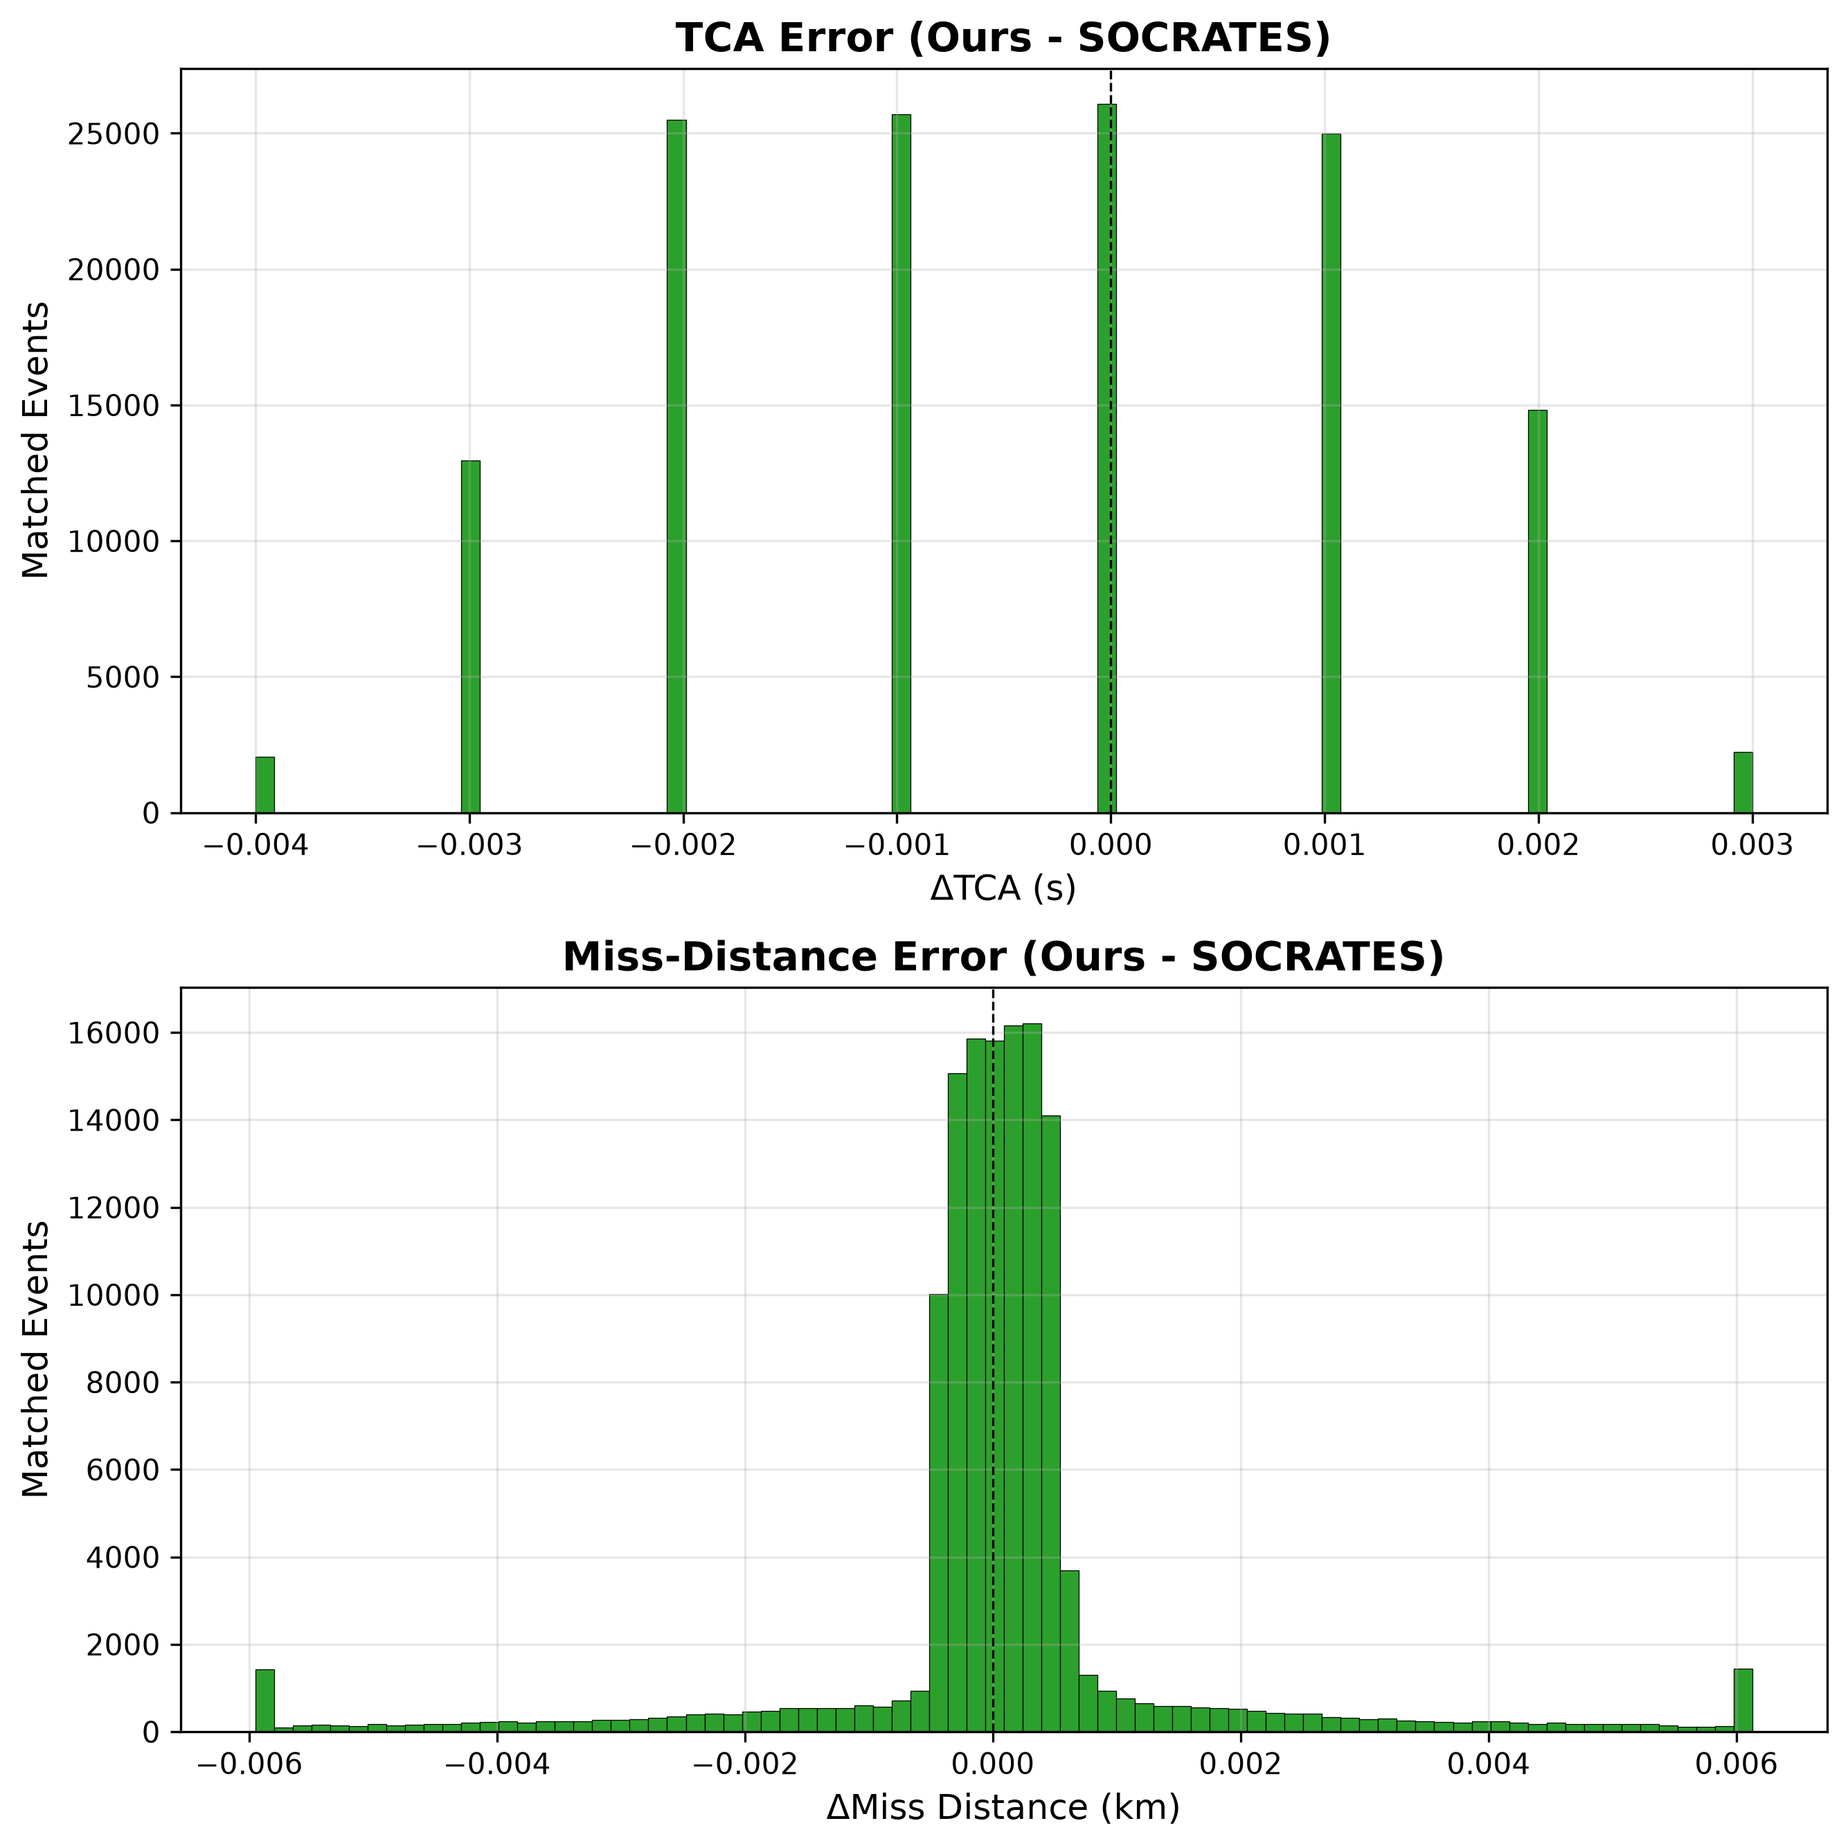
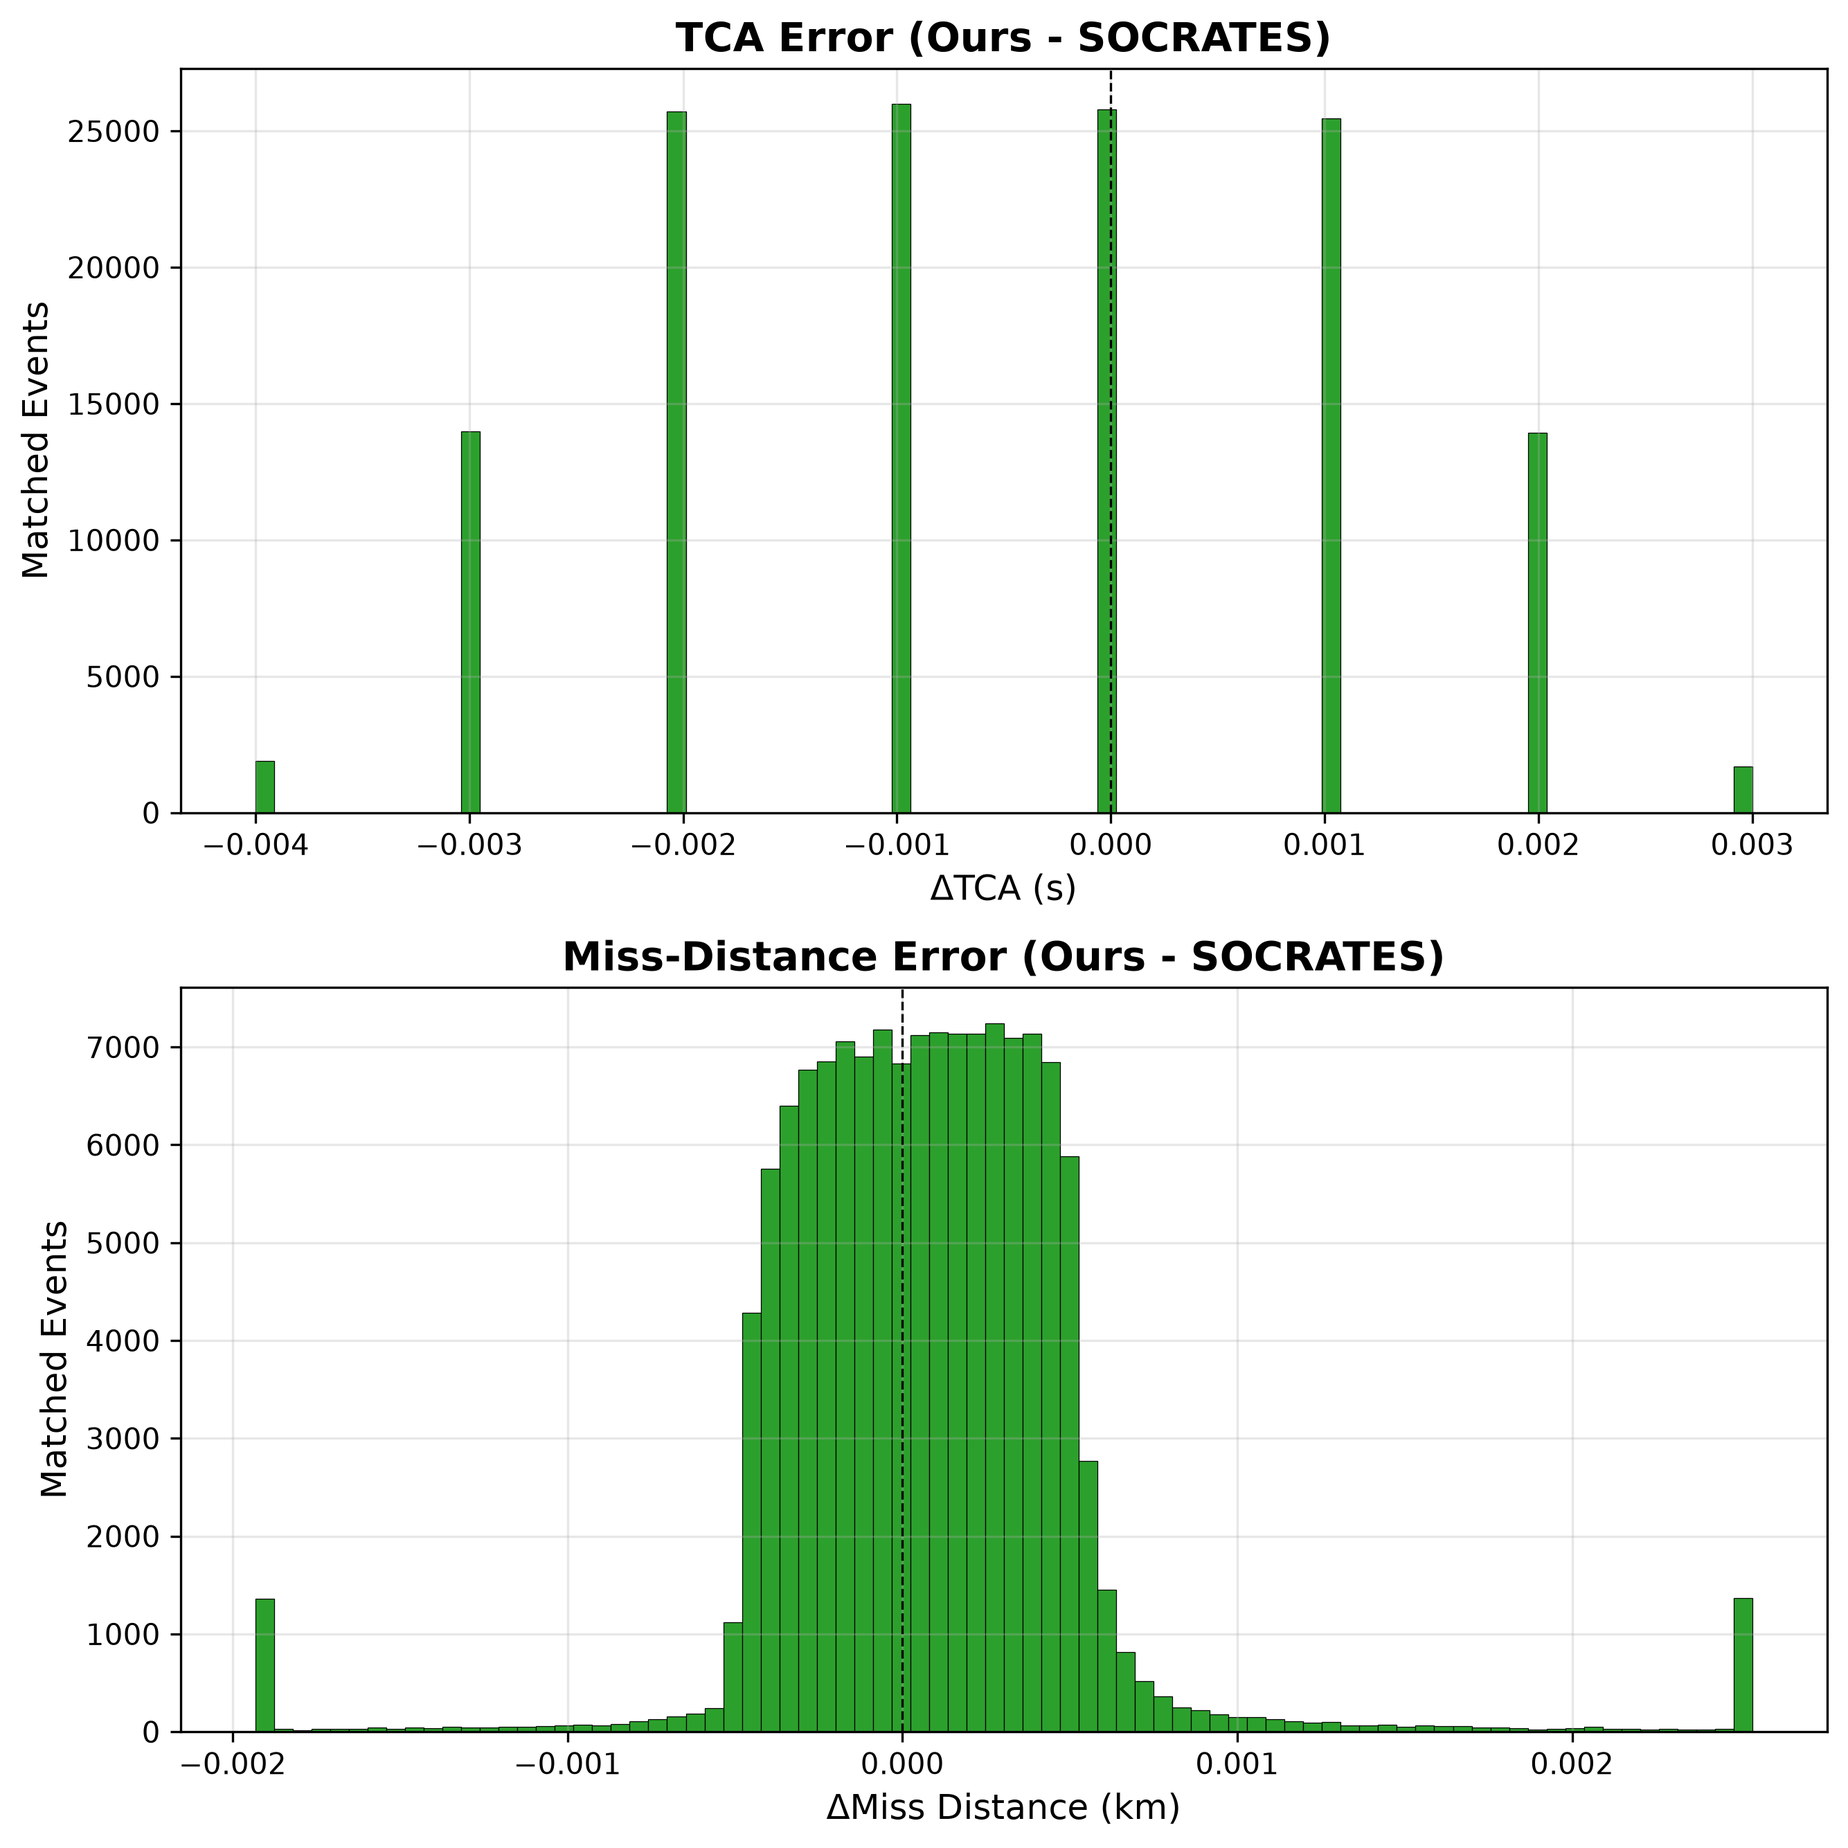
Fix bug in SOCRATES catalog reconstruction

diff --git a/docs/8-socrates-comparison/socrates-catalog-sync.py b/docs/8-socrates-comparison/socrates-catalog-sync.py
@@ -2,8 +2,10 @@
 """Reconstruct SOCRATES's TLE catalog and load it into the satellite table.
 
 socrates.csv carries DSE_1 / DSE_2 (days since each side's TLE epoch) for every conjunction.
-Per NORAD that means a target TLE epoch (TCA - DSE * 1 day). For each, pick the gp_history
-row whose EPOCH is closest within MATCH_TOL_SEC. Wipes the satellite table (CASCADE).
+Per NORAD that means a target TLE epoch (TCA - DSE * 1 day). For each, pick among the gp_history
+rows within MATCH_TOL_SEC the one created last before T_SNAPSHOT. Space-Track republishes refitted
+element sets under the same epoch, and DSE (3 decimals, ~86 s) cannot tell them apart, so the
+creation date decides. Wipes the satellite table (CASCADE).
 """
 import csv
 import json
@@ -27,6 +29,10 @@ CSV_PATH = OUT_DIR / "satellite.csv"
 
 T_END = datetime(2026, 5, 9, 19, 0, 0, tzinfo=timezone.utc)
 T_QUERY_CUTOFF = datetime(2026, 5, 10, 7, 2, 0, tzinfo=timezone.utc)
+# When SOCRATES pulled its catalog. Event-level miss distances place it between the 18:22:33 and
+# 18:22:48 Space-Track batches: SOCRATES has the analyst objects of the first, and its miss
+# distances fit the versions from before the second better, 2,997 events to 249.
+T_SNAPSHOT = datetime(2026, 5, 9, 18, 22, 40, tzinfo=timezone.utc)
 T_START = T_END - timedelta(days=30)
 SLICE_HOURS = 12
 MATCH_TOL_SEC = 60.0
@@ -170,9 +176,12 @@ def merge_by_target(slice_files, targets):
             diff = abs((ep_dt - target).total_seconds())
             if diff > MATCH_TOL_SEC:
                 continue
+            created = datetime.fromisoformat(r["CREATION_DATE"]).replace(tzinfo=timezone.utc)
+            if created >= T_SNAPSHOT:
+                continue
             cur = best.get(ncid)
-            if cur is None or diff < cur[0]:
-                best[ncid] = (diff, r)
+            if cur is None or (created, -diff) > cur[0]:
+                best[ncid] = ((created, -diff), r)
     matched = {n: rec for n, (_, rec) in best.items()}
     missing = len(targets) - len(matched)
     print(f"matched {len(matched)} / {len(targets)} ({len(matched)/len(targets)*100:.1f}%); "

diff --git a/docs/8-socrates-comparison/compare.py b/docs/8-socrates-comparison/compare.py
@@ -9,6 +9,7 @@ from pathlib import Path
 
 import matplotlib.pyplot as plt
 import numpy as np
+from matplotlib.ticker import MaxNLocator
 import pandas as pd
 
 HERE = Path(__file__).resolve().parent
@@ -211,7 +212,7 @@ def time_bucket_overlap(soc, ours, window_start, bucket_hours, n_buckets):
     return df
 
 
-def plot_missed_miss_distance(missed, path):
+def plot_missed_events(missed, path):
     if missed.empty:
         return
     fig, (ax1, ax2) = plt.subplots(1, 2, figsize=(16, 5))
@@ -222,6 +223,7 @@ def plot_missed_miss_distance(missed, path):
     ax1.set_ylabel("Events", fontsize=12)
     ax1.set_title("By Reported Miss Distance", fontsize=12, fontweight="bold")
     ax1.set_xlim(0, 5)
+    ax1.yaxis.set_major_locator(MaxNLocator(integer=True, steps=[1, 2, 5, 10]))
     ax1.grid(True, alpha=0.3)
 
     vel_hi = max(15.0, float(missed["relative_speed_km_s"].max()))
@@ -231,6 +233,7 @@ def plot_missed_miss_distance(missed, path):
     ax2.set_ylabel("Events", fontsize=12)
     ax2.set_title("By Reported Relative Velocity", fontsize=12, fontweight="bold")
     ax2.set_xlim(0, vel_hi)
+    ax2.yaxis.set_major_locator(MaxNLocator(integer=True, steps=[1, 2, 5, 10]))
     ax2.grid(True, alpha=0.3)
 
     fig.suptitle("SOCRATES Events We Missed", fontsize=14, fontweight="bold")
@@ -255,7 +258,7 @@ def main():
     print(f"\nPer-day overlap")
     time_bucket_overlap(soc, ours, WINDOW_START, 24, WINDOW_HOURS // 24)
 
-    plot_missed_miss_distance(soc_un, HERE / "2_missed_miss_distance.png")
+    plot_missed_events(soc_un, HERE / "2_missed_events.png")
 
     if not matched.empty:
         print(f"\nErrors on matched events")

diff --git a/docs/8-socrates-comparison/README.md b/docs/8-socrates-comparison/README.md
@@ -8,7 +8,7 @@ window, then measuring agreement at the event level.
 ### Reference run
 
 SOCRATES Plus catalog generated 2026-05-10 07:02 UTC, computation interval start 2026-05-09 19:00 UTC, 7-day lookahead,
-5 km miss-distance threshold. CelesTrak generates this list twice daily by propagating the active-payload primary set
+5 km miss-distance threshold. CelesTrak generates this list by propagating the active-payload primary set
 against the full Space-Track catalog with SGP4/STK-CAT and publishes the result as
 `sort-minRange.csv`.
 
@@ -20,12 +20,14 @@ variable we replicate SOCRATES's TLE set exactly:
 1. `socrates.csv` carries `DSE_1` and `DSE_2` (days since each side's TLE epoch) for every conjunction. For each NORAD
    that appears in any row, compute target TLE epoch as `TCA - DSE days`.
 2. `socrates-catalog-sync.py` pulls Space-Track `gp_history` in over a 30-day window ending at 2026-05-09 19:00 UTC.
-3. For each NORAD, pick the `gp_history` row whose EPOCH is closest to the target within 60 s.
+3. For each NORAD, take the `gp_history` rows whose EPOCH is within 60 s of the target, and pick the one created last
+   before SOCRATES pulled its catalog (`T_SNAPSHOT`, 2026-05-09 18:22:40 UTC).
 4. Write the result to CSV and load it into the local Postgres `satellite` table via
    `TRUNCATE satellite CASCADE; \copy satellite FROM ...`.
 
-The resulting `satellite` table is per-satellite TLE-identical with SOCRATES for every conjunction-producing satellite.
-Any disagreement after this point is caused by the propagator, screening, or filter mismatch.
+Step 3 needs the creation date because Space-Track republishes refitted element sets under the same epoch, and DSE only
+resolves the epoch to ~86 s. Picking the closest epoch instead gives 3,007 objects the wrong version, which moves 35
+SOCRATES approaches by more than 100 km.
 
 ### Our screening run
 
@@ -58,22 +60,22 @@ closest approach are within 1 minute of each other.
 | Events                                   |   Count |                                         |
 |------------------------------------------|--------:|----------------------------------------:|
 | SOCRATES total                           | 134,598 |                                         |
-| Our total                                | 134,765 |                                         |
-| Matched (both flagged the same event)    | 134,369 |                                         |
-| Ours only (we flagged, SOCRATES did not) |     396 | **99.7%** of ours SOCRATES also flagged |
-| SOCRATES only (they flagged, we did not) |     229 |      **99.8%** of SOCRATES we also flag |
+| Our total                                | 134,756 |                                         |
+| Matched (both flagged the same event)    | 134,470 |                                         |
+| Ours only (we flagged, SOCRATES did not) |     286 | **99.8%** of ours SOCRATES also flagged |
+| SOCRATES only (they flagged, we did not) |     128 |      **99.9%** of SOCRATES we also flag |
 
 ## Physics agreement on matched events
 
-For the 134,369 events both pipelines flag:
+For the 134,470 events both pipelines flag:
 
 |               Quantity | Median |    p95 |
 |-----------------------:|-------:|-------:|
-|               ΔTCA (s) |  0.000 |  0.003 |
-|    Δmiss-distance (km) | 0.0001 | 0.0041 |
+|               ΔTCA (s) | -0.001 |  0.003 |
+|    Δmiss-distance (km) | 0.0001 | 0.0007 |
 | Δrelative-speed (km/s) |     ~0 | 0.0005 |
 
-TCA agrees to **3 ms** and miss distance to **4 m** at p95.
+TCA agrees to **3 ms** and miss distance to **0.7 m** at p95.
 
 ![ΔTCA and Δmiss-distance error distributions](1_errors.png)
 
@@ -81,31 +83,29 @@ TCA agrees to **3 ms** and miss distance to **4 m** at p95.
 
 | Day | SOCRATES |   Ours | Matched | % of ours SOCRATES flagged | % of SOCRATES we flagged |
 |----:|---------:|-------:|--------:|---------------------------:|-------------------------:|
-|   1 |   19,283 | 19,253 |  19,225 |                      99.9% |                    99.7% |
-|   2 |   19,242 | 19,269 |  19,196 |                      99.6% |                    99.8% |
-|   3 |   19,079 | 19,126 |  19,063 |                      99.7% |                    99.9% |
-|   4 |   19,527 | 19,520 |  19,494 |                      99.9% |                    99.8% |
-|   5 |   19,258 | 19,310 |  19,228 |                      99.6% |                    99.8% |
-|   6 |   19,005 | 19,074 |  18,987 |                      99.5% |                    99.9% |
-|   7 |   19,204 | 19,213 |  19,176 |                      99.8% |                    99.9% |
+|   1 |   19,283 | 19,256 |  19,233 |                      99.9% |                    99.7% |
+|   2 |   19,242 | 19,278 |  19,213 |                      99.7% |                    99.8% |
+|   3 |   19,079 | 19,119 |  19,074 |                      99.8% |                   100.0% |
+|   4 |   19,527 | 19,519 |  19,510 |                     100.0% |                    99.9% |
+|   5 |   19,258 | 19,301 |  19,243 |                      99.7% |                    99.9% |
+|   6 |   19,005 | 19,066 |  19,002 |                      99.7% |                   100.0% |
+|   7 |   19,204 | 19,217 |  19,195 |                      99.9% |                   100.0% |
 
-Agreement is flat at 99.5%+ across all seven days.
+Agreement is flat at 99.7%+ across all seven days.
 
-## The remaining 0.2%
+## The remaining 0.1
 
-![Missed SOCRATES events by their reported miss distance](2_missed_miss_distance.png)
+![SOCRATES events we missed, by reported miss distance and relative velocity](2_missed_events.png)
 
-229 SOCRATES events have no match in our catalog, and 396 of our events aren't present in SOCRATES's. The histograms
-plot their SOCRATES-reported miss distance and relative velocity. The spike against the 5 km wall is the
-boundary-disagreement bucket: SOCRATES says just under 5 km, our system says just over, and the event is skipped. The
-velocity panel shows a second spike near zero: 106 missed events sit below 325 m/s, a cluster of slow co-orbiting pairs
-that survived the 10 m/s formation-flight filter.
+**128 SOCRATES only.** 33 sit within 0.5 km of the 5 km wall (SOCRATES just under, us just over). 106 close below
+325 m/s: slow co-orbiting pairs that survived the 10 m/s filter, individuated differently by the two systems. The
+groups overlap by 20. The other 9 close at 14.5-16.3 km/s, above the 12.8 km/s capture guarantee: real grid misses.
 
-SOCRATES uses a hand-curated list for both primary-vs-all screening and intra-fleet exclusion; their provided
-`active.txt` is a broader proxy that retains decommissioned constellation members SOCRATES itself treats as non-primary.
-Proof: `socrates.csv` itself contains 10,175 Starlink-Starlink conjunctions, plus 16 OneWeb and 5 Kuiper. If their rule
-were "drop all same-fleet pairs" those counts would be zero. Therefore, the survivors must be pairs where at least one
-side is a decommissioned constellation member SOCRATES no longer treats as primary. That sub-list isn't public.
+**286 ours only.** 60 sit within 0.5 km of the wall and 1 is slow. SOCRATES does not report the pairs of the other 225,
+though both objects appear elsewhere in its output. Vallado's reference SGP4 puts all 225 under 5 km. 25% have orbital
+planes 175° or more apart (1.1% of matched events), and they thin out to ~0 at the start, middle and end of the window.
+George & Harvey (AMOS 2011) found both signatures in the misses of STK Advanced CAT's orbit path pre-filter. SOCRATES
+runs on STK CAT, but does not publish which pre-filters it enables.
 
 ## Inputs (regenerable)
 

diff --git a/README.md b/README.md
@@ -1,7 +1,8 @@
 # SIMPLETON
 
-**S**atellite **I**ntersection **M**onitoring **P**ipeline for **L**ocating **E**very **T**hreatening **O**rbital **N**
-eighbor
+<!-- @formatter:off -->
+**S**atellite **I**ntersection **M**onitoring **P**ipeline for **L**ocating **E**very **T**hreatening **O**rbital **N**eighbor
+<!-- @formatter:on -->
 
 [Live demo](https://simpleton.zlosnik.dev/)
 
@@ -9,8 +10,8 @@ All-vs-all satellite conjunction screener. Scans the full public catalog (~30,00
 in under 30 seconds on consumer hardware.
 
 Validated against [CelesTrak SOCRATES](https://celestrak.org/SOCRATES/): when filtered to equivalent scope
-(payload-vs-catalog, excluding intra-constellation pairs) and given identical TLE input, 99.8% of SOCRATES events are
-also flagged by this pipeline, with median TCA agreement under 1 ms and median miss distance of 0.1 m - see
+(payload-vs-catalog, excluding intra-constellation pairs) and given identical TLE input, 99.9% of SOCRATES events are
+also flagged by this pipeline, with TCA agreeing to 3 ms and miss distance to 0.7 m at p95 - see
 [Validation](#validation) below for the breakdown. Full all-vs-all screening finds ~58,000 conjunctions per 24h window,
 including secondary pairs that SOCRATES excludes.
 
@@ -76,19 +77,19 @@ same satellite pair with TCAs within 1 minute.
 | Events         |   Count |
 |----------------|--------:|
 | SOCRATES total | 134,598 |
-| Our total      | 134,765 |
-| Matched        | 134,369 |
-| Ours only      |     396 |
-| Missed         |     229 |
+| Our total      | 134,756 |
+| Matched        | 134,470 |
+| Ours only      |     286 |
+| Missed         |     128 |
 
-99.8% of SOCRATES events are also flagged by this pipeline. 99.7% of this pipeline's events are also flagged by
-SOCRATES. Agreement is flat at 99.5%+ across all seven days.
+99.9% of SOCRATES events are also flagged by this pipeline. 99.8% of this pipeline's events are also flagged by
+SOCRATES. Agreement is flat at 99.7%+ across all seven days.
 
 ![ΔTCA and Δmiss-distance error distributions vs SOCRATES](docs/8-socrates-comparison/1_errors.png)
 
-On matched events, TCA agrees to 3 ms and miss distance to 4 m at p95.
+On matched events, TCA agrees to 3 ms and miss distance to 0.7 m at p95.
 
-Methodology, TLE replication procedure, and analysis of the remaining 0.2% available
+Methodology, TLE replication procedure, and analysis of the remaining 0.1% available
 at [docs/8](docs/8-socrates-comparison).
 
 ## Parameter Tuning
